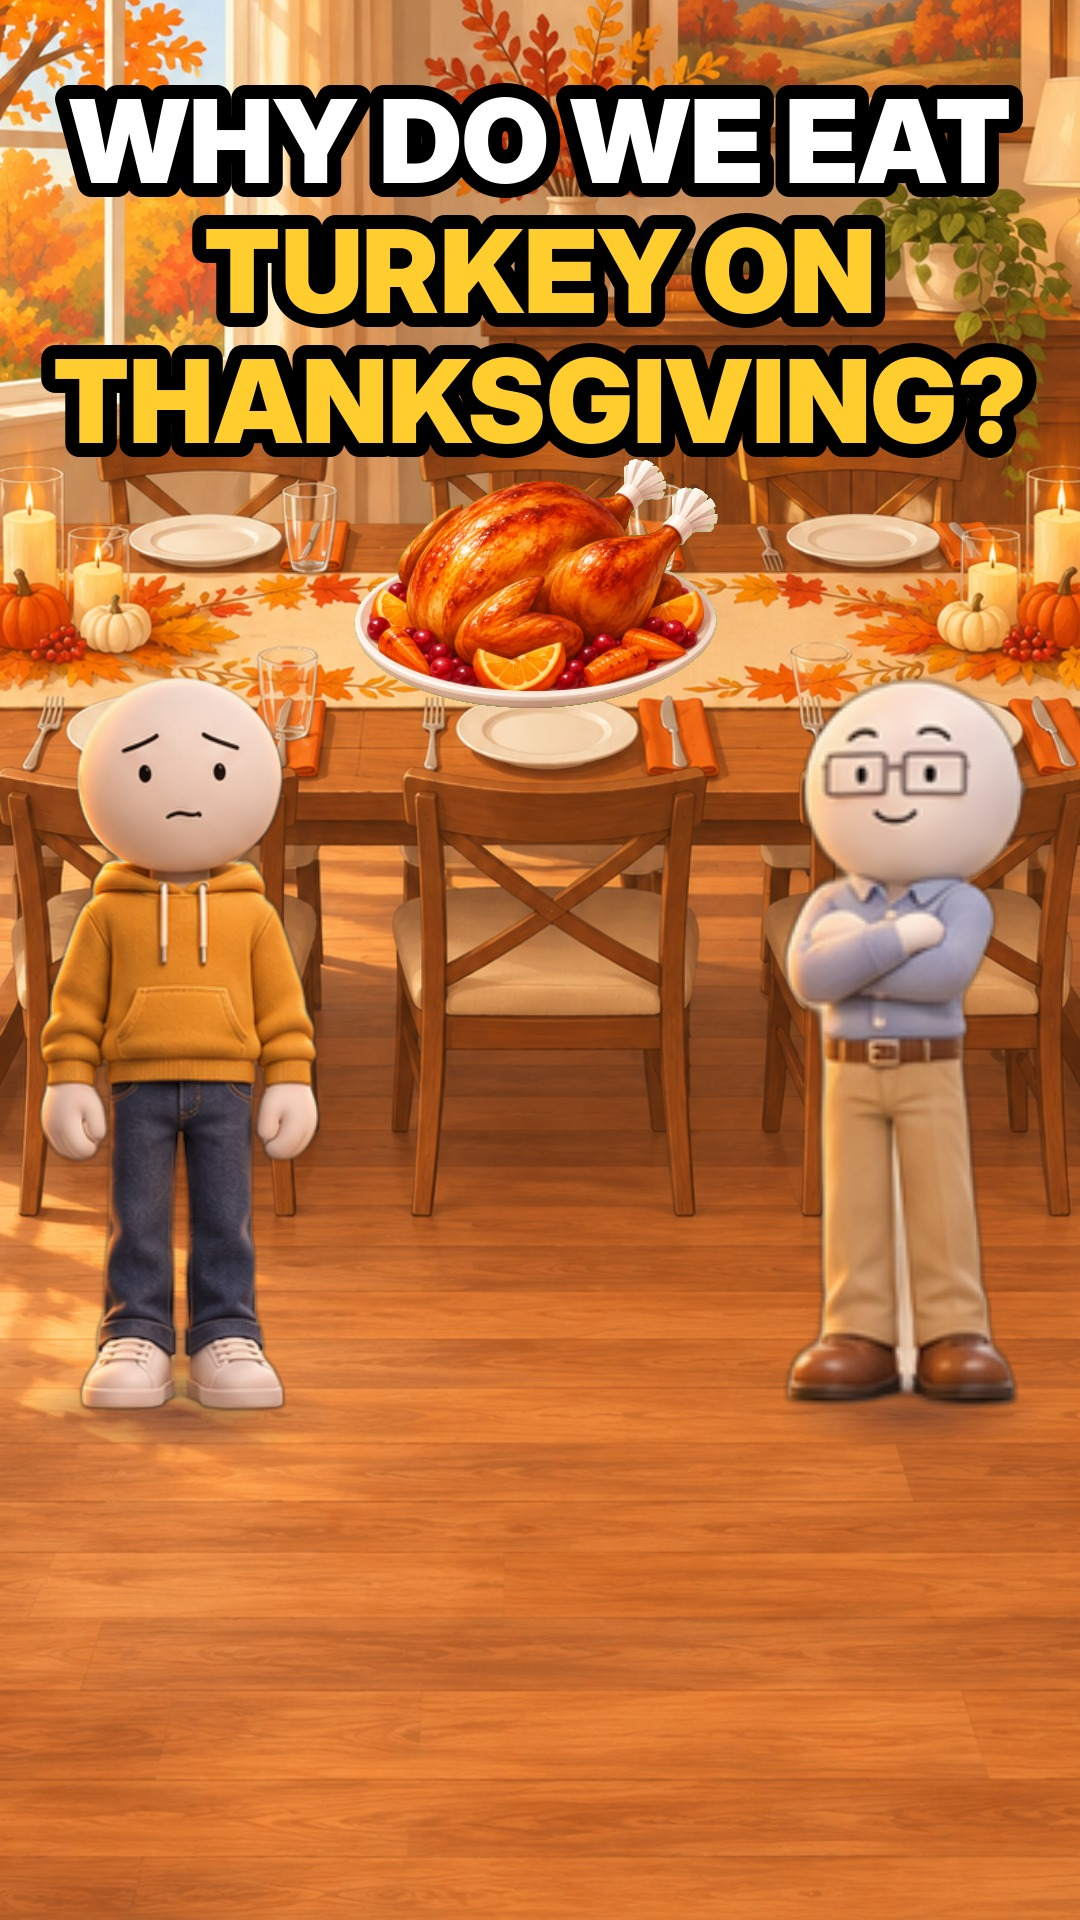
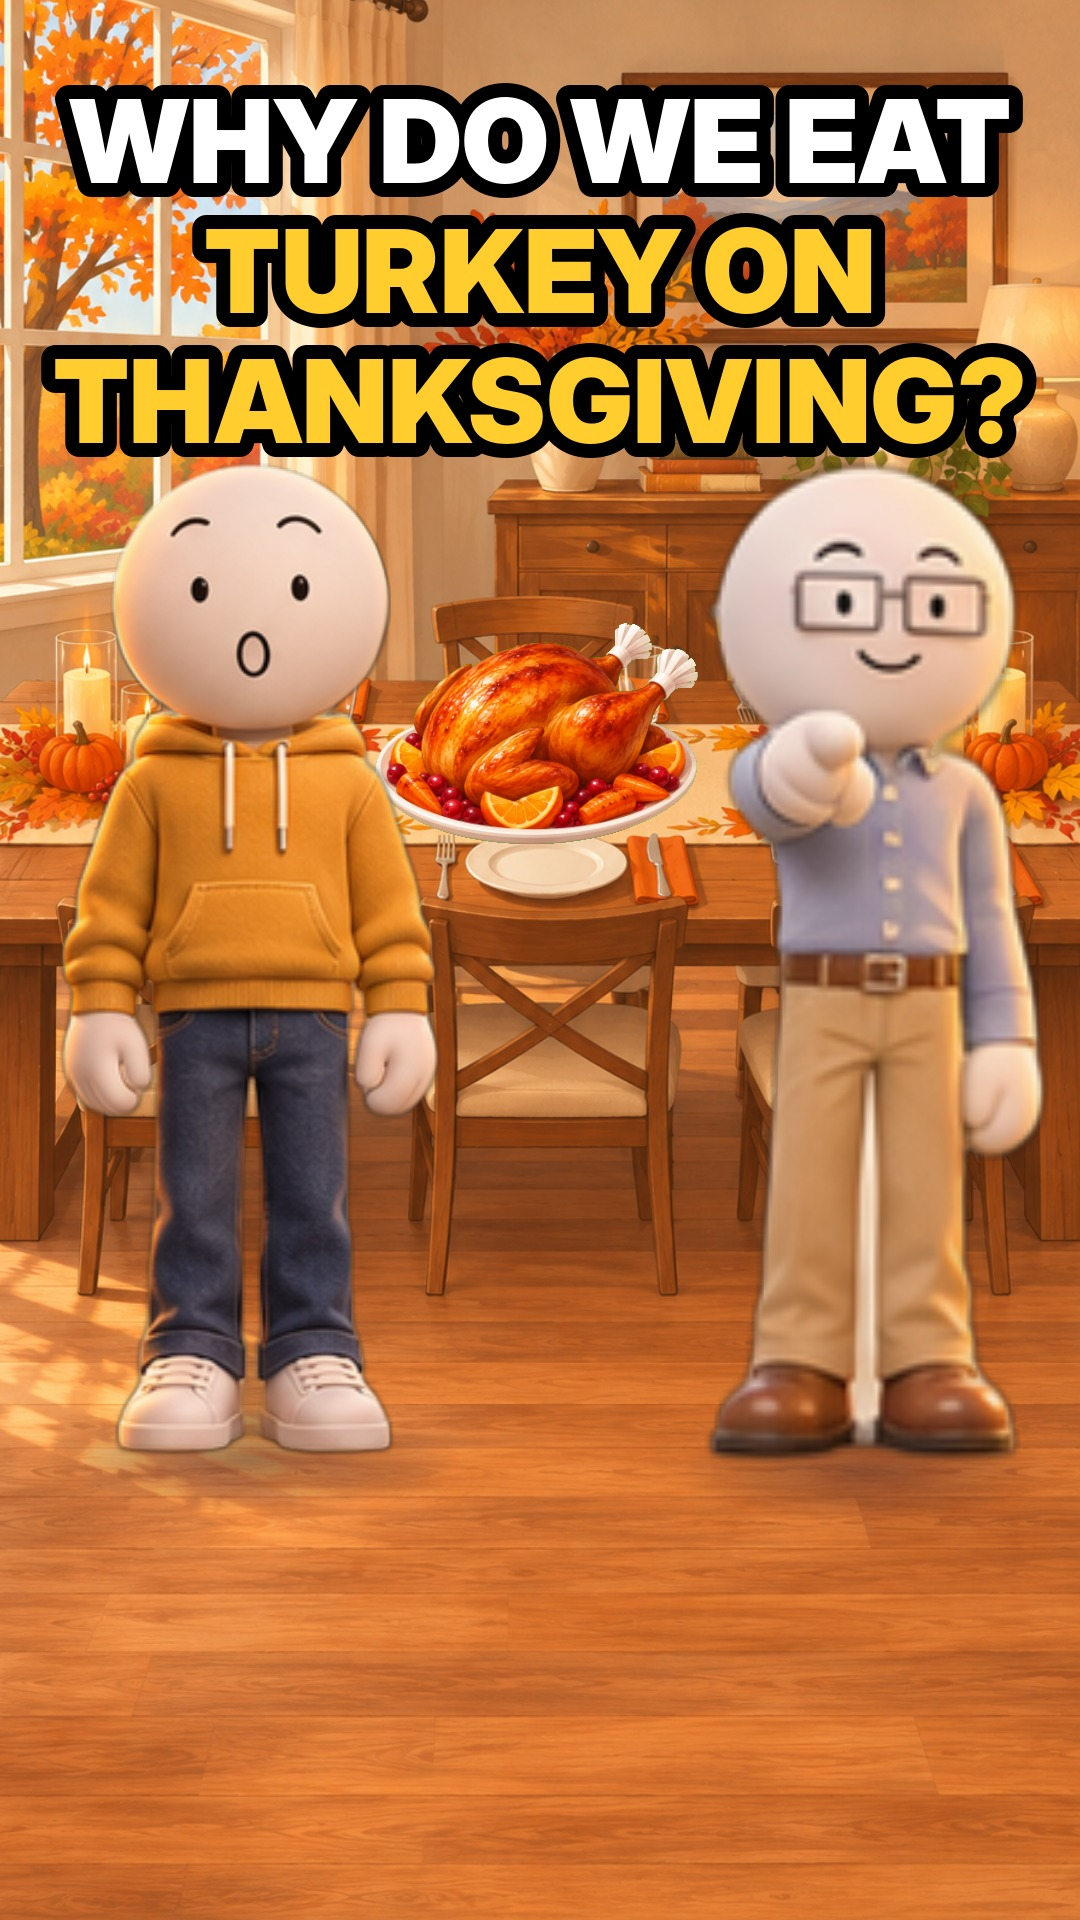
turkey-thanksgiving: re-render with bigger sheet cast, new cover frame
Claude-Session: https://claude.ai/code/session_01HD3jrLcoK1kMkb9xVrgRkH

diff --git a/videos/turkey-thanksgiving/post.md b/videos/turkey-thanksgiving/post.md
@@ -1,6 +1,6 @@
 # Posting kit: turkey-thanksgiving
 
-**Cover:** `cover.jpg` (1080×1920): worried Doug and smirking, arms-crossed Gary at the Thanksgiving table, the roast turkey between them. Headline in the top quarter.
+**Cover:** `cover.jpg` (1080×1920): surprised Doug and pointing Gary at the Thanksgiving table, the roast turkey between them (frame 20.6 s). Headline in the top quarter.
 
 **Caption (TikTok / Reels):**
 Why do we eat turkey on Thanksgiving?
